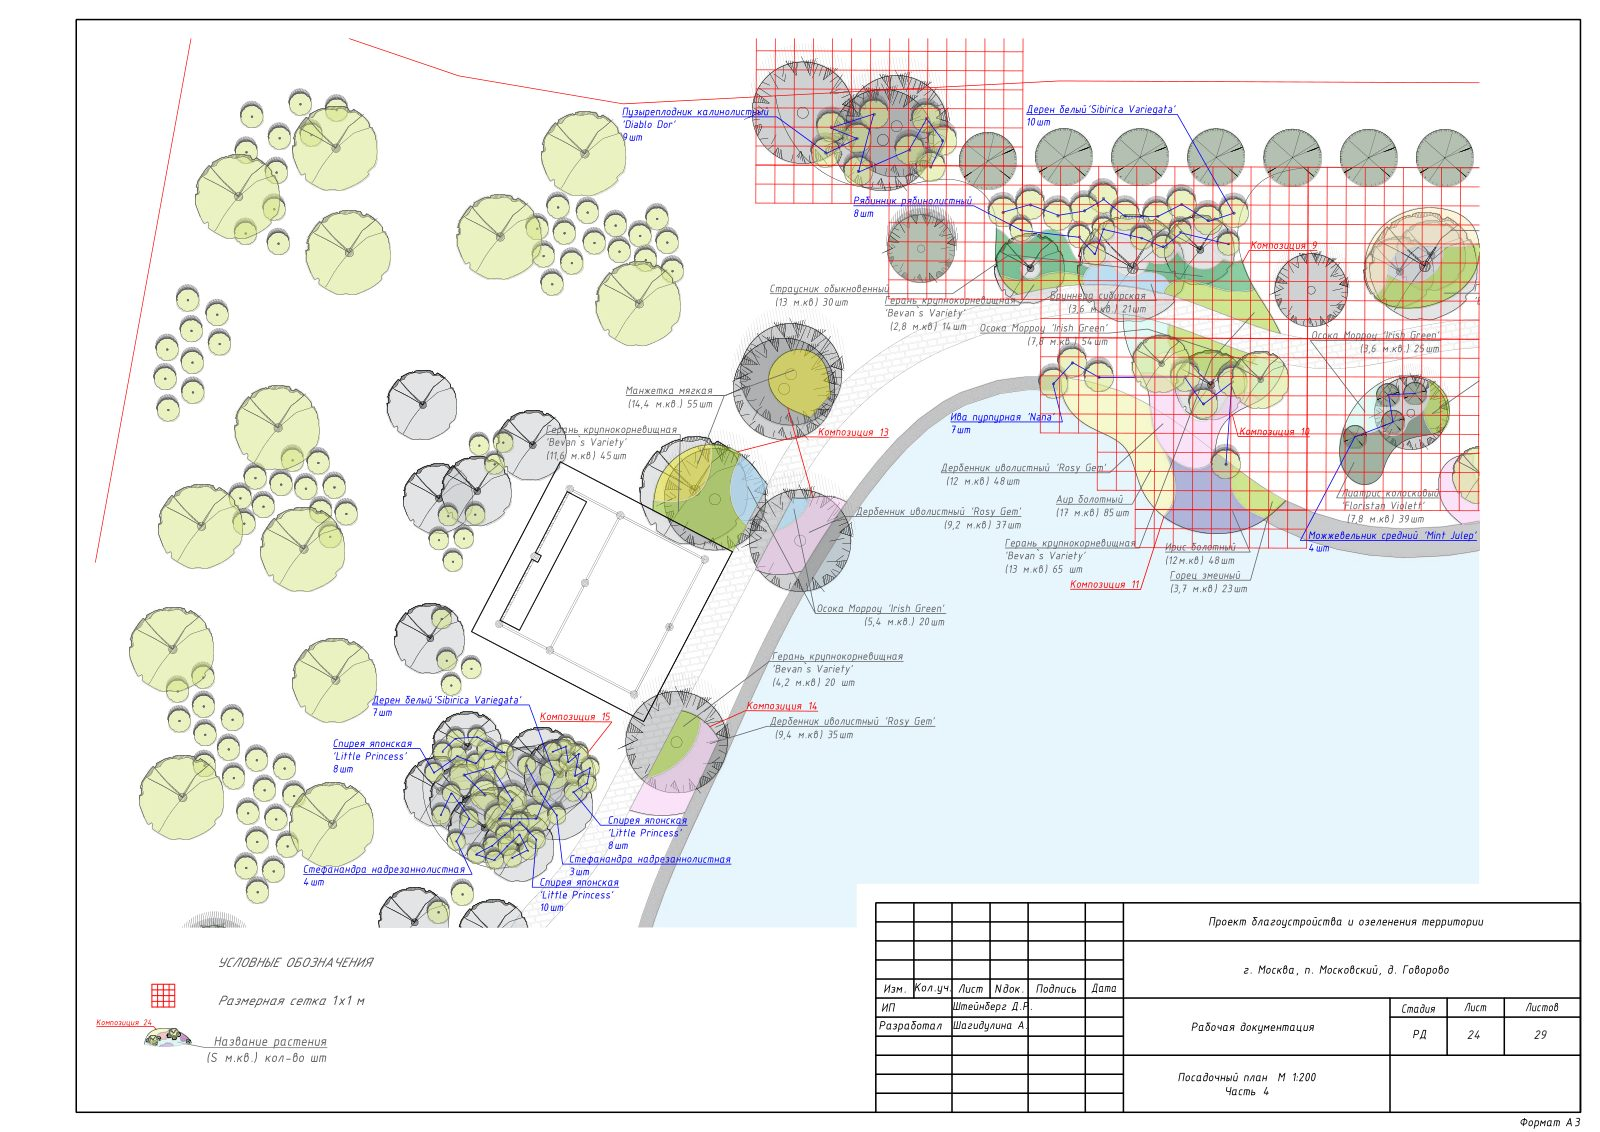
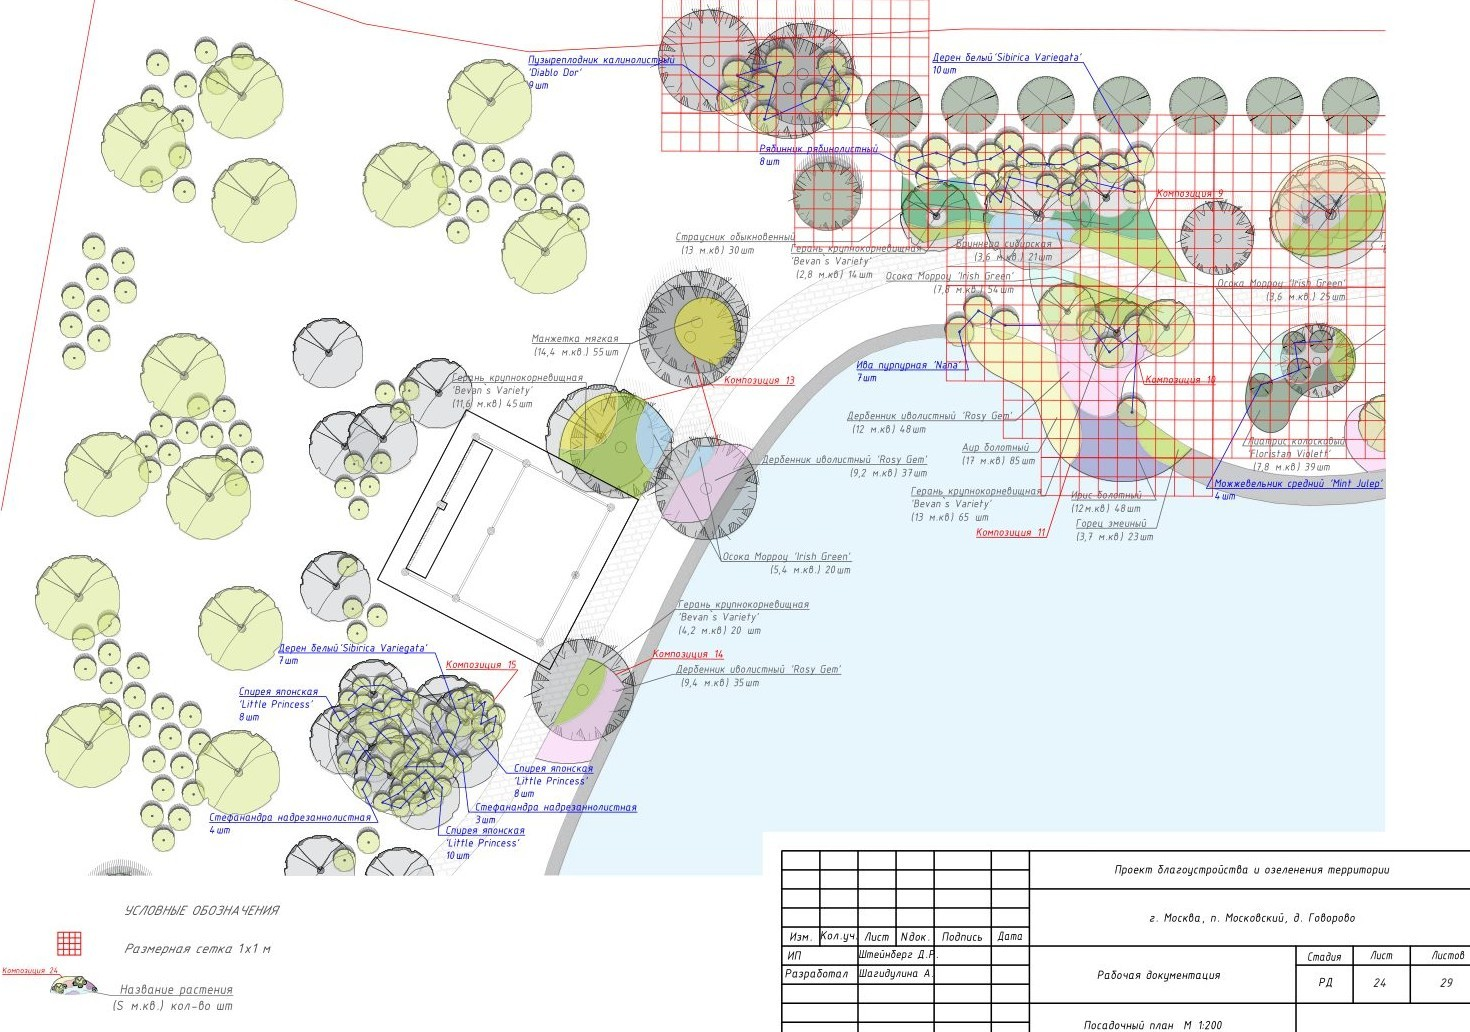
Crop drawing chrome and fill project frames edge-to-edge.

diff --git a/presentation.html b/presentation.html
@@ -418,17 +418,15 @@
       object-position: center;
       transform: scale(1.06);
     }
-    /* Drawing sheets: soft paper plate, crop page chrome */
+    /* Drawing sheets: fill dark frame, crop page chrome hard */
     .project-shot--sheet {
-      background:
-        linear-gradient(160deg, #ece8e0 0%, #d8d2c6 100%);
-      outline-color: rgba(231, 238, 232, 0.22);
+      background: #0c1210;
     }
     .project-shot--sheet img {
       object-fit: cover;
-      object-position: center 42%;
-      transform: scale(1.18);
-      filter: contrast(1.03) saturate(1.04);
+      object-position: center 45%;
+      transform: scale(1.28);
+      filter: contrast(1.04) saturate(1.05);
     }
     .slide.is-active .project-shot img {
       transform: scale(1.08);
@@ -438,7 +436,7 @@
       transform: scale(1);
     }
     .slide.is-active .project-shot--sheet img {
-      transform: scale(1.1);
+      transform: scale(1.18);
     }
     .project-copy {
       min-width: 0;
